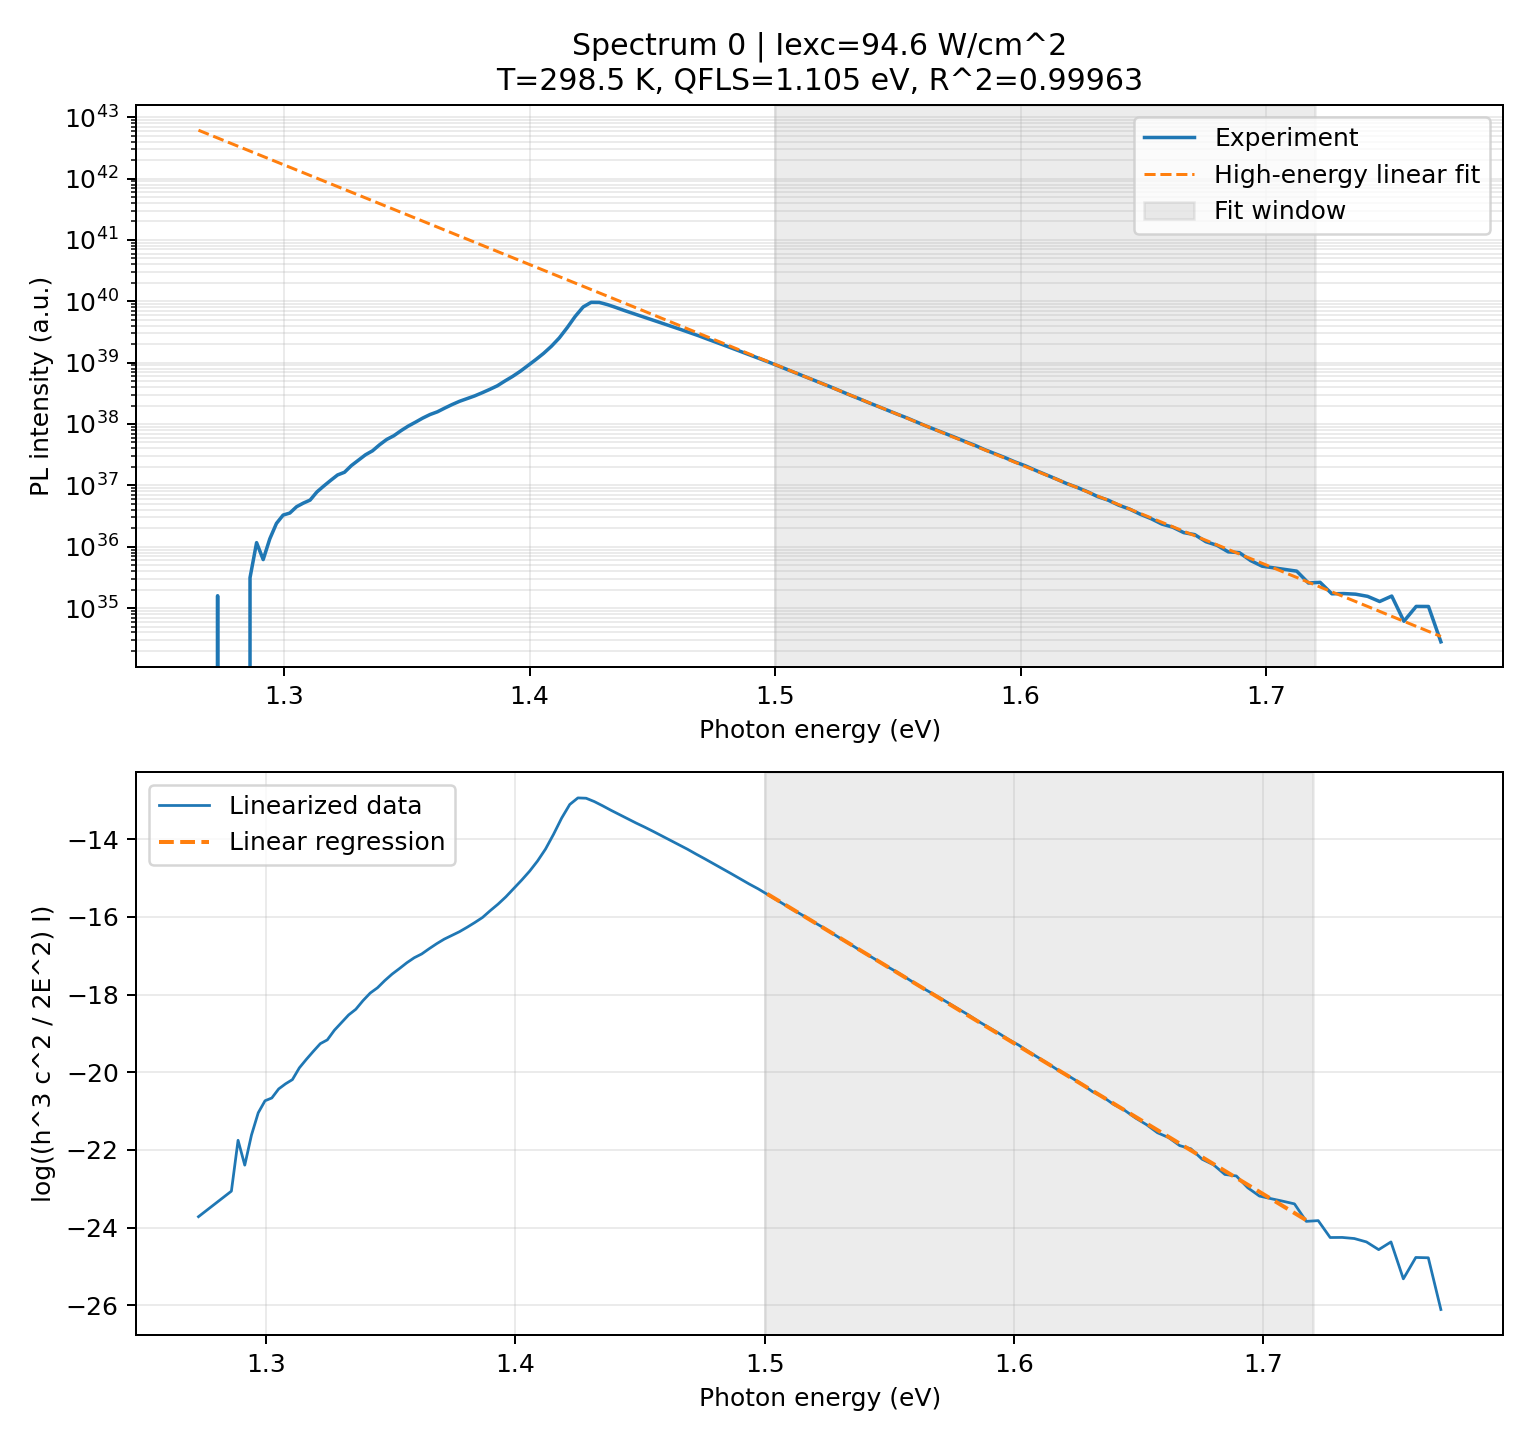
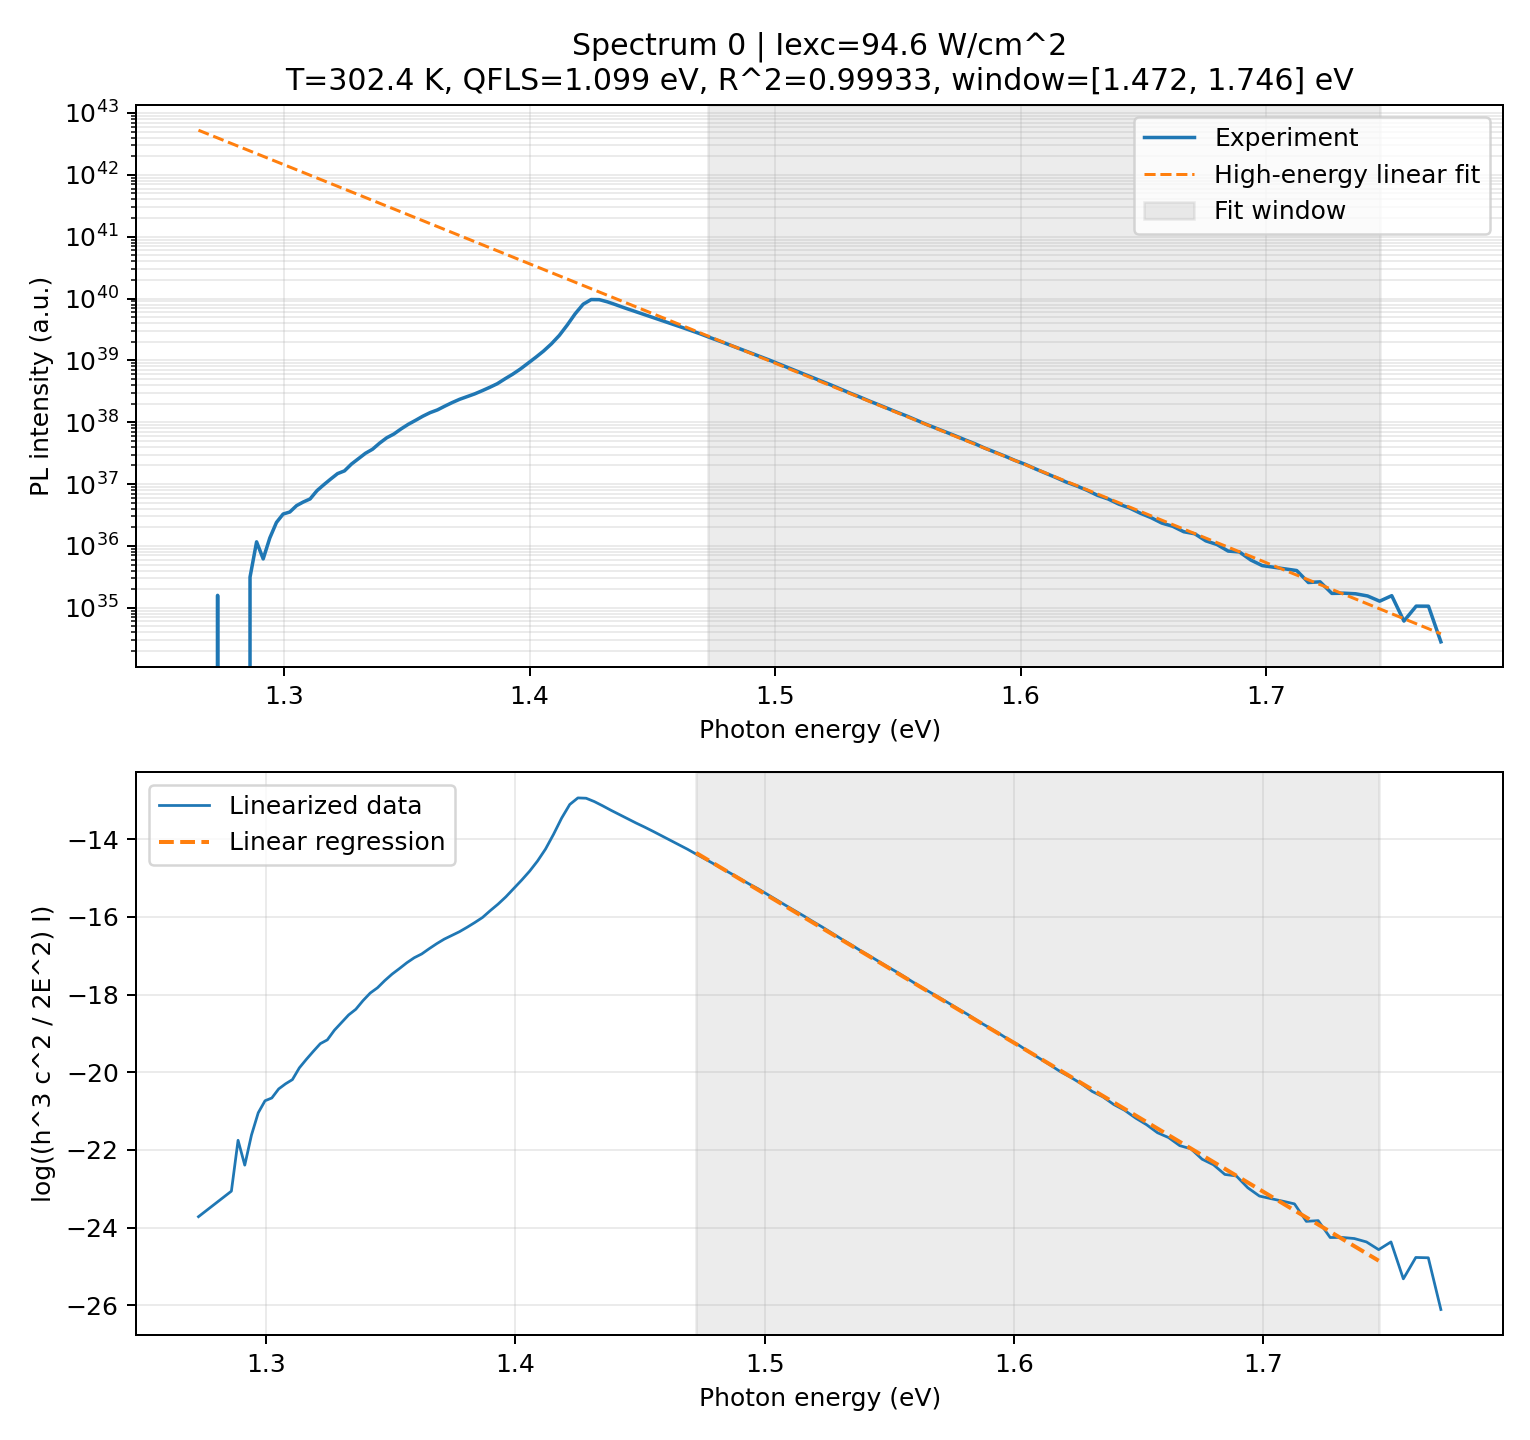
Implement auto-fit window selection for spectrum fitting and update output files

diff --git a/main.py b/main.py
@@ -12,8 +12,22 @@ from matplotlib.colors import LogNorm
 
 # ----------------------------- User-tunable settings -----------------------------
 FILENAME = "GaAs bulk_PL_avg_circle_4pixs.txt"
+
+# If False, fixed fit window below is used for all spectra.
+AUTO_SELECT_FIT_WINDOW = True
 FIT_ENERGY_MIN_EV = 1.50
 FIT_ENERGY_MAX_EV = 1.72
+
+# Auto-window selection parameters
+WINDOW_SEARCH_MIN_EV = 1.45
+WINDOW_SEARCH_MAX_EV = 1.77
+WINDOW_PEAK_OFFSET_EV = 0.045
+WINDOW_MIN_POINTS = 18
+WINDOW_MIN_R2 = 0.995
+WINDOW_T_MIN_K = 150.0
+WINDOW_T_MAX_K = 1200.0
+WINDOW_LENGTH_WEIGHT = 2.0e-4
+WINDOW_HIGH_ENERGY_WEIGHT = 2.0e-4
 
 # A0 is usually unknown in the simplified linear fit.
 # If left at 1.0, reported QFLS is an effective value (offset absorbed in A0).
@@ -67,6 +81,9 @@ M0 = 9.1093837015e-31  # kg
 class FitResult:
     spectrum_id: str
     intensity_w_cm2: float
+    fit_min_ev: float
+    fit_max_ev: float
+    window_mode: str
     n_points_fit: int
     slope: float
     intercept: float
@@ -109,23 +126,112 @@ def compute_mu_and_density_mb(
     return mu_e_ev, mu_h_ev, n_cm3
 
 
+def auto_select_fit_window(
+    energy_ev: np.ndarray,
+    intensity: np.ndarray,
+) -> tuple[np.ndarray, float, float, str]:
+    valid = np.isfinite(energy_ev) & np.isfinite(intensity) & (intensity > 0)
+    if np.count_nonzero(valid) < WINDOW_MIN_POINTS:
+        return valid, np.nan, np.nan, "fallback_insufficient_points"
+
+    peak_idx = np.argmax(np.where(valid, intensity, -np.inf))
+    peak_ev = float(energy_ev[peak_idx])
+    search_min = max(WINDOW_SEARCH_MIN_EV, peak_ev + WINDOW_PEAK_OFFSET_EV)
+    search_max = WINDOW_SEARCH_MAX_EV
+
+    candidate = valid & (energy_ev >= search_min) & (energy_ev <= search_max)
+    window_mode = "auto_peak_offset"
+
+    if np.count_nonzero(candidate) < WINDOW_MIN_POINTS:
+        candidate = valid & (energy_ev >= WINDOW_SEARCH_MIN_EV) & (energy_ev <= WINDOW_SEARCH_MAX_EV)
+        window_mode = "fallback_search_range_only"
+
+    if np.count_nonzero(candidate) < WINDOW_MIN_POINTS:
+        candidate = valid
+        window_mode = "fallback_all_valid"
+
+    idx = np.flatnonzero(candidate)
+    x_j = energy_ev[idx] * E_CHARGE
+    y = linearized_signal(energy_ev[idx], intensity[idx])
+
+    best: dict[str, float | int] | None = None
+    n = idx.size
+
+    for i in range(0, n - WINDOW_MIN_POINTS + 1):
+        for j in range(i + WINDOW_MIN_POINTS - 1, n):
+            xx = x_j[i : j + 1]
+            yy = y[i : j + 1]
+            slope, intercept = np.polyfit(xx, yy, deg=1)
+            if not np.isfinite(slope) or slope >= 0:
+                continue
+
+            yy_fit = slope * xx + intercept
+            ss_res = np.sum((yy - yy_fit) ** 2)
+            ss_tot = np.sum((yy - np.mean(yy)) ** 2)
+            if ss_tot <= 0:
+                continue
+            r2 = 1.0 - ss_res / ss_tot
+            if (not np.isfinite(r2)) or (r2 < WINDOW_MIN_R2):
+                continue
+
+            temperature_k = -1.0 / (K_B * slope)
+            if (not np.isfinite(temperature_k)) or (temperature_k < WINDOW_T_MIN_K) or (temperature_k > WINDOW_T_MAX_K):
+                continue
+
+            length = j - i + 1
+            window_start_ev = float(energy_ev[idx[i]])
+            score = (
+                r2
+                + WINDOW_LENGTH_WEIGHT * length
+                + WINDOW_HIGH_ENERGY_WEIGHT * (window_start_ev - float(np.nanmin(energy_ev)))
+            )
+
+            if (best is None) or (score > float(best["score"])):
+                best = {"score": score, "i": i, "j": j}
+
+    if best is None:
+        i = 0
+        j = n - 1
+        window_mode += "|fallback_full_candidate"
+    else:
+        i = int(best["i"])
+        j = int(best["j"])
+
+    selected_idx = idx[i : j + 1]
+    fit_mask = np.zeros_like(valid, dtype=bool)
+    fit_mask[selected_idx] = True
+    fit_min_ev = float(energy_ev[selected_idx[0]])
+    fit_max_ev = float(energy_ev[selected_idx[-1]])
+    return fit_mask, fit_min_ev, fit_max_ev, window_mode
+
+
 def fit_single_spectrum(
     energy_ev: np.ndarray,
     intensity: np.ndarray,
     spectrum_id: str,
     intensity_w_cm2: float,
-    fit_min_ev: float,
-    fit_max_ev: float,
+    auto_select_fit_window_enabled: bool,
+    fit_min_ev_fixed: float,
+    fit_max_ev_fixed: float,
     assumed_a0: float,
 ) -> tuple[FitResult, np.ndarray]:
-    valid = np.isfinite(energy_ev) & np.isfinite(intensity) & (intensity > 0)
-    in_window = (energy_ev >= fit_min_ev) & (energy_ev <= fit_max_ev)
-    fit_mask = valid & in_window
+    if auto_select_fit_window_enabled:
+        fit_mask, fit_min_ev, fit_max_ev, window_mode = auto_select_fit_window(energy_ev=energy_ev, intensity=intensity)
+    else:
+        valid = np.isfinite(energy_ev) & np.isfinite(intensity) & (intensity > 0)
+        in_window = (energy_ev >= fit_min_ev_fixed) & (energy_ev <= fit_max_ev_fixed)
+        fit_mask = valid & in_window
+        fit_min_ev = fit_min_ev_fixed
+        fit_max_ev = fit_max_ev_fixed
+        window_mode = "fixed"
 
     if np.count_nonzero(fit_mask) < 3:
         result = FitResult(
             spectrum_id=spectrum_id,
             intensity_w_cm2=float(intensity_w_cm2),
+            fit_min_ev=float(fit_min_ev),
+            fit_max_ev=float(fit_max_ev),
+            window_mode=window_mode,
             n_points_fit=int(np.count_nonzero(fit_mask)),
             slope=np.nan,
             intercept=np.nan,
@@ -163,6 +269,9 @@ def fit_single_spectrum(
     result = FitResult(
         spectrum_id=spectrum_id,
         intensity_w_cm2=float(intensity_w_cm2),
+        fit_min_ev=float(fit_min_ev),
+        fit_max_ev=float(fit_max_ev),
+        window_mode=window_mode,
         n_points_fit=int(np.count_nonzero(fit_mask)),
         slope=float(slope),
         intercept=float(intercept),
@@ -209,10 +318,10 @@ def plot_single_fit(
     intensity: np.ndarray,
     intensity_model: np.ndarray,
     result: FitResult,
-    fit_min_ev: float,
-    fit_max_ev: float,
     outpath: Path,
 ) -> None:
+    fit_min_ev = result.fit_min_ev
+    fit_max_ev = result.fit_max_ev
     fit_mask = (energy_ev >= fit_min_ev) & (energy_ev <= fit_max_ev) & (intensity > 0)
 
     fig, axes = plt.subplots(2, 1, figsize=(8.5, 8.0), sharex=False)
@@ -228,7 +337,8 @@ def plot_single_fit(
     ax0.legend(loc="best")
     ax0.set_title(
         f"Spectrum {result.spectrum_id} | Iexc={result.intensity_w_cm2:.3g} W/cm^2\n"
-        f"T={result.temperature_k:.1f} K, QFLS={result.qfls_ev:.3f} eV, R^2={result.r2:.5f}"
+        f"T={result.temperature_k:.1f} K, QFLS={result.qfls_ev:.3f} eV, R^2={result.r2:.5f}, "
+        f"window=[{fit_min_ev:.3f}, {fit_max_ev:.3f}] eV"
     )
 
     y_all = linearized_signal(energy_ev[intensity > 0], intensity[intensity > 0])
@@ -325,8 +435,9 @@ def main() -> None:
         intensity=spectra[:, 0],
         spectrum_id=spectrum_ids[0],
         intensity_w_cm2=float(EXCITATION_INTENSITY_W_CM2[0]),
-        fit_min_ev=FIT_ENERGY_MIN_EV,
-        fit_max_ev=FIT_ENERGY_MAX_EV,
+        auto_select_fit_window_enabled=AUTO_SELECT_FIT_WINDOW,
+        fit_min_ev_fixed=FIT_ENERGY_MIN_EV,
+        fit_max_ev_fixed=FIT_ENERGY_MAX_EV,
         assumed_a0=ASSUMED_A0,
     )
     plot_single_fit(
@@ -334,8 +445,6 @@ def main() -> None:
         intensity=spectra[:, 0],
         intensity_model=first_model,
         result=first_result,
-        fit_min_ev=FIT_ENERGY_MIN_EV,
-        fit_max_ev=FIT_ENERGY_MAX_EV,
         outpath=fit_dir / "fit_spectrum_00.png",
     )
 
@@ -348,8 +457,9 @@ def main() -> None:
             intensity=spectra[:, i],
             spectrum_id=spectrum_ids[i],
             intensity_w_cm2=float(EXCITATION_INTENSITY_W_CM2[i]),
-            fit_min_ev=FIT_ENERGY_MIN_EV,
-            fit_max_ev=FIT_ENERGY_MAX_EV,
+            auto_select_fit_window_enabled=AUTO_SELECT_FIT_WINDOW,
+            fit_min_ev_fixed=FIT_ENERGY_MIN_EV,
+            fit_max_ev_fixed=FIT_ENERGY_MAX_EV,
             assumed_a0=ASSUMED_A0,
         )
         all_results.append(result)
@@ -358,8 +468,6 @@ def main() -> None:
             intensity=spectra[:, i],
             intensity_model=intensity_model,
             result=result,
-            fit_min_ev=FIT_ENERGY_MIN_EV,
-            fit_max_ev=FIT_ENERGY_MAX_EV,
             outpath=fit_dir / f"fit_spectrum_{i:02d}.png",
         )
 
@@ -372,10 +480,17 @@ def main() -> None:
     print(f"Spectrum fits:    {fit_dir}")
     print(f"Results table:    {out_dir / 'fit_results.csv'}")
     print(f"Summary figure:   {out_dir / 'parameters_vs_intensity.png'}")
-    print(
-        f"Fit window used:  [{FIT_ENERGY_MIN_EV:.3f}, {FIT_ENERGY_MAX_EV:.3f}] eV | "
-        f"ASSUMED_A0={ASSUMED_A0:g}"
-    )
+    if AUTO_SELECT_FIT_WINDOW:
+        print(
+            "Fit window mode:  AUTO per spectrum | "
+            f"search=[{WINDOW_SEARCH_MIN_EV:.3f}, {WINDOW_SEARCH_MAX_EV:.3f}] eV, "
+            f"peak_offset={WINDOW_PEAK_OFFSET_EV:.3f} eV"
+        )
+    else:
+        print(
+            f"Fit window used:  [{FIT_ENERGY_MIN_EV:.3f}, {FIT_ENERGY_MAX_EV:.3f}] eV | "
+            f"ASSUMED_A0={ASSUMED_A0:g}"
+        )
 
 
 if __name__ == "__main__":
